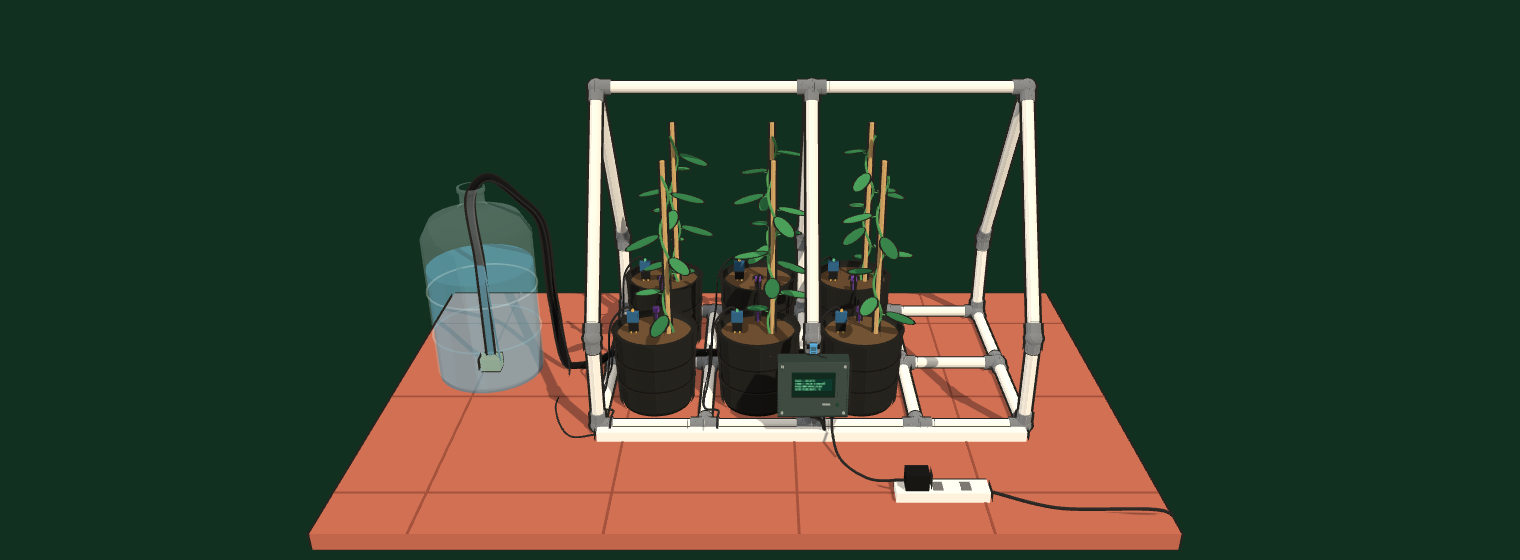
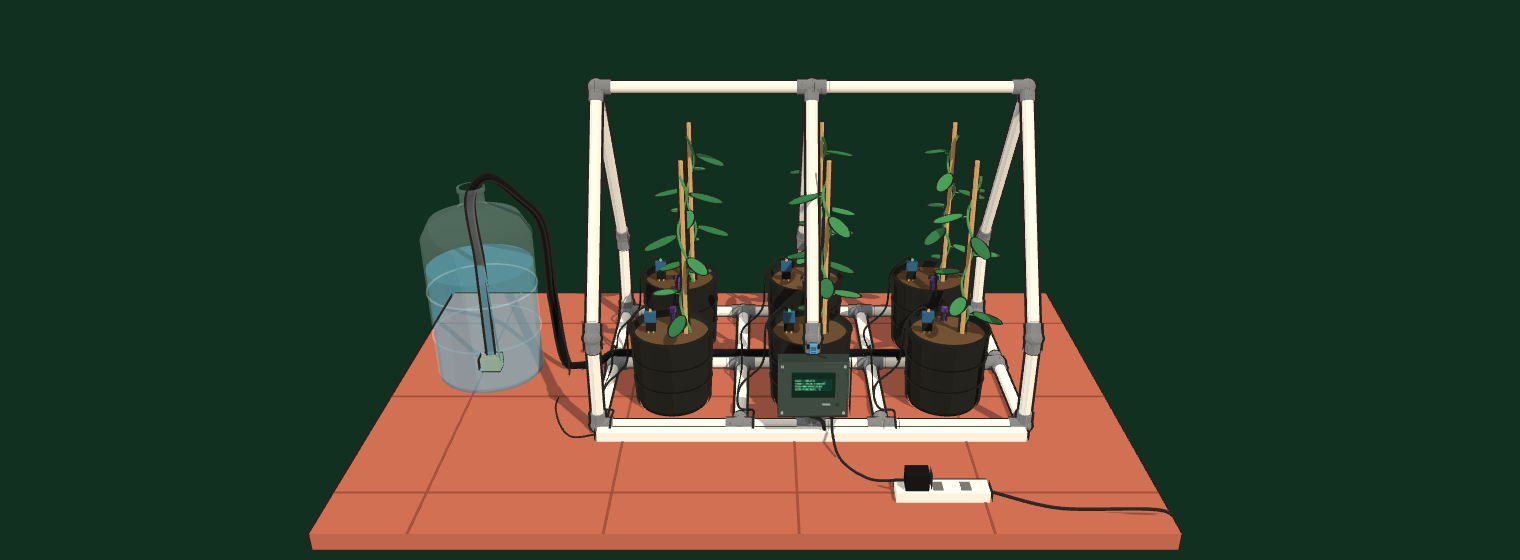
Prototipe 3D: alas rangka paralon jadi 3 x 2 kotak
Panjang rangka tetap 100 cm, alas dibagi 3 x 2 kotak (~33 x 30 cm).
Rel depan dan belakang disambung tee di x = 0 untuk tiang kuda-kuda
tengah, jadi casing tetap di tiang tengah. Polybag pindah ke tengah
tiap kotak; kabel sensor, ujung selang, dan klip ikut digeser.
Poster landing dirender ulang.

Changed region(s): [[0.3711, 0.2125, 0.6803, 0.7893]]

diff --git a/backend/prototipe/scene.js b/backend/prototipe/scene.js
@@ -107,8 +107,10 @@ function pipe(a, b) { // pipa + selongsong fitting di kedua ujung
   for (const [p, s] of [[a, 1], [b, -1]]) rod(p.clone().addScaledVector(dir, s * 0.004), p.clone().addScaledVector(dir, s * 0.034), R * 1.26, C.fit, frame, 18);
 }
 const joint = (p) => { add(new THREE.Mesh(new THREE.SphereGeometry(R * 1.45, 18, 12), C.fit), frame).position.copy(p); };
-const XS = [-0.5, -0.25, 0, 0.25, 0.5], ZS = [-W / 2, 0, W / 2], TRUSS = [-0.5, 0, 0.5];
-for (const z of ZS) for (let i = 0; i < XS.length - 1; i++) pipe(V(XS[i], BY, z), V(XS[i + 1], BY, z));
+// Alas 3 × 2 kotak (~33 × 30 cm). Rel depan dan belakang disambung tee di x = 0, tempat tiang kuda-kuda tengah berdiri.
+const XS = [-0.5, -1 / 6, 1 / 6, 0.5], ZS = [-W / 2, 0, W / 2], TRUSS = [-0.5, 0, 0.5];
+for (const z of ZS) { const xs = z ? [-0.5, -1 / 6, 0, 1 / 6, 0.5] : XS; for (let i = 0; i < xs.length - 1; i++) pipe(V(xs[i], BY, z), V(xs[i + 1], BY, z)); }
+for (const z of [-W / 2, W / 2]) joint(V(0, BY, z));
 for (const x of XS) { pipe(V(x, BY, -W / 2), V(x, BY, 0)); pipe(V(x, BY, 0), V(x, BY, W / 2)); for (const z of ZS) joint(V(x, BY, z)); }
 for (const x of TRUSS) {
   for (const z of [-W / 2, W / 2]) { pipe(V(x, BY, z), V(x, POST, z)); pipe(V(x, POST, z), V(x, H, 0)); joint(V(x, POST, z)); }
@@ -117,7 +119,7 @@ for (const x of TRUSS) {
 for (let i = 0; i < TRUSS.length - 1; i++) pipe(V(TRUSS[i], H, 0), V(TRUSS[i + 1], H, 0));
 
 // ---------- 6 polybag vanili, sensor tanah, dripper ----------
-const POTS = []; for (const x of [-0.375, -0.125, 0.125]) for (const z of [-0.15, 0.15]) POTS.push([x, z]);
+const POTS = []; for (const x of [-1 / 3, 0, 1 / 3]) for (const z of [-0.15, 0.15]) POTS.push([x, z]);
 const xs = POTS.map(([x]) => x * 100);   // posisi tanaman dalam cm (dipakai label)
 const patches = [], leds = [], drips = [];
 const dryColor = new THREE.Color(0x8a6a48), wetColor = new THREE.Color(0x2a1a10);
@@ -173,7 +175,7 @@ POTS.forEach(([px, pz], i) => {
 part('sensor');
 const DUCT_Y = 0.0125, DUCT_Z = PZ + 0.03;
 POTS.forEach(([px, pz]) => {
-  const rx = px - 0.125, sx = px - 0.05, y = BY + R + 0.0028, pts = [V(sx, SOIL_Y + 0.057, pz), V(sx - 0.012, SOIL_Y + 0.07, pz), V(px - POT_R - 0.004, 0.214, pz), V(px - 0.115, 0.1, pz), V(rx, y + 0.004, pz)];
+  const rx = px - 1 / 6, sx = px - 0.05, y = BY + R + 0.0028, pts = [V(sx, SOIL_Y + 0.057, pz), V(sx - 0.012, SOIL_Y + 0.07, pz), V(px - POT_R - 0.004, 0.214, pz), V(px - 0.115, 0.1, pz), V(rx, y + 0.004, pz)];
   if (pz < 0) pts.push(V(rx, y, -0.05), V(rx, HY + 0.014, -0.012), V(rx, HY + 0.014, 0.012), V(rx, y, 0.05));
   pts.push(V(rx, y, PZ - 0.045), V(rx + 0.03, y + 0.002, PZ - 0.035), V(rx + 0.03, BY + R + 0.0058, PZ), V(rx + 0.03, 0.0265, DUCT_Z));
   tube(pts, 0.0026, C.cable, world, 90);
@@ -182,12 +184,12 @@ POTS.forEach(([px, pz]) => {
 // ---------- selang utama, klip, cabang, galon, pompa celup ----------
 part('air');
 const hoses = [];
-const hoseEnd = 0.2;
+const hoseEnd = 0.42;
 hoses.push(tube([V(GX, 0.045, 0), V(GX, 0.3, 0), V(GX, 0.49, 0), V(GX + 0.045, 0.53, 0), V(GX + 0.12, 0.47, 0), V(GX + 0.16, 0.42, 0),
   V(GX + 0.175, 0.2, 0), V(GX + 0.2, 0.012, 0), V(-0.6, 0.009, 0), V(-0.545, 0.02, 0), V(-0.5, HY, 0)], 0.008, C.hose, world, 160));
 hoses.push(rod(V(-0.5, HY, 0), V(hoseEnd, HY, 0), 0.008, C.hose));
 rod(V(hoseEnd - 0.004, HY, 0), V(hoseEnd + 0.016, HY, 0), 0.0095, C.cap);
-for (const x of [-0.44, -0.19, 0.06]) box(0.01, HY - BY - R, 0.022, C.black, x, (BY + R + HY) / 2, 0);
+for (const x of [-0.42, -0.09, 0.24]) box(0.01, HY - BY - R, 0.022, C.black, x, (BY + R + HY) / 2, 0);
 POTS.forEach(([px, pz]) => {
   const s = Math.sign(pz);
   cyl(0.005, 0.016, C.conn, px, HY + 0.012, 0);
